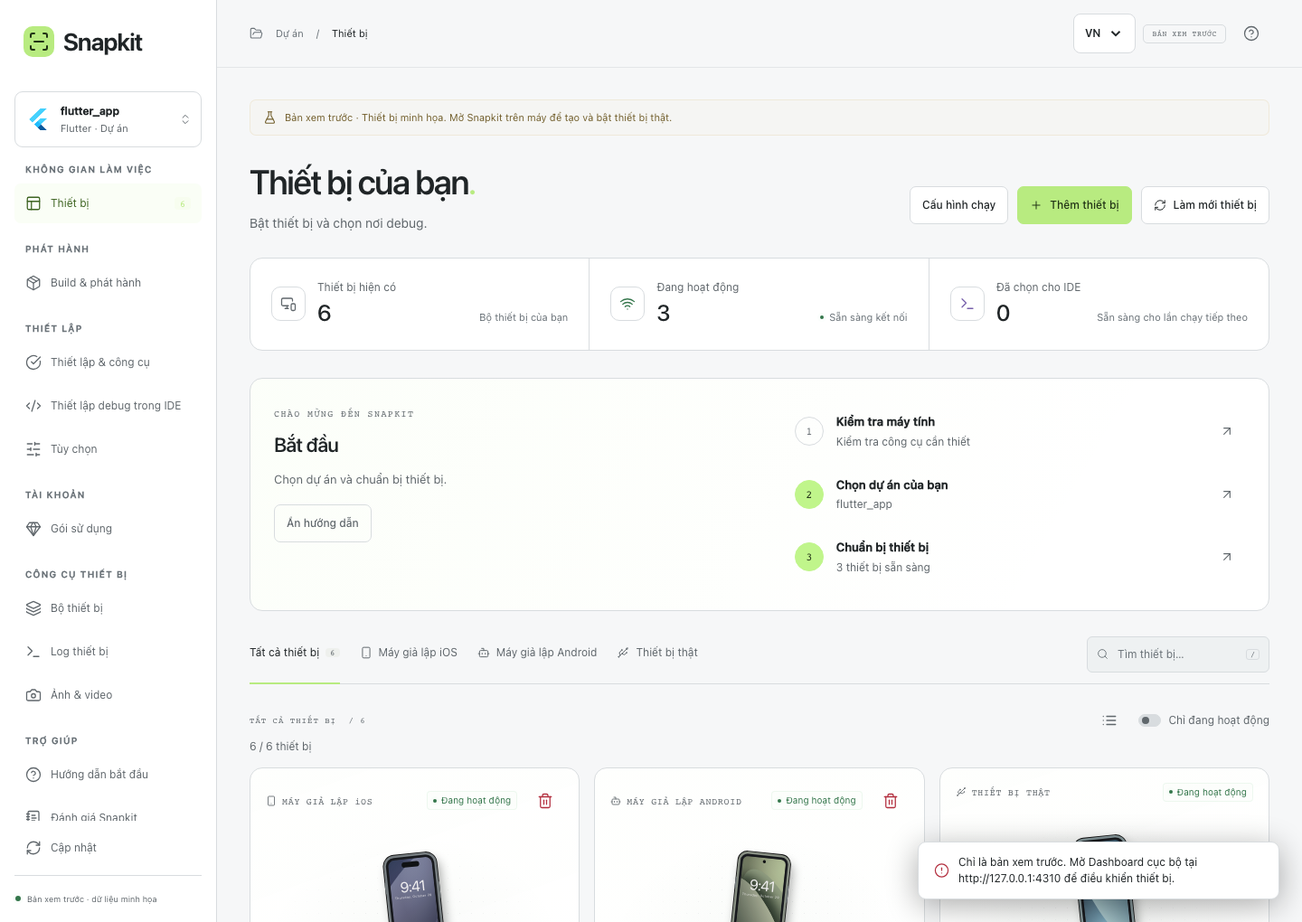
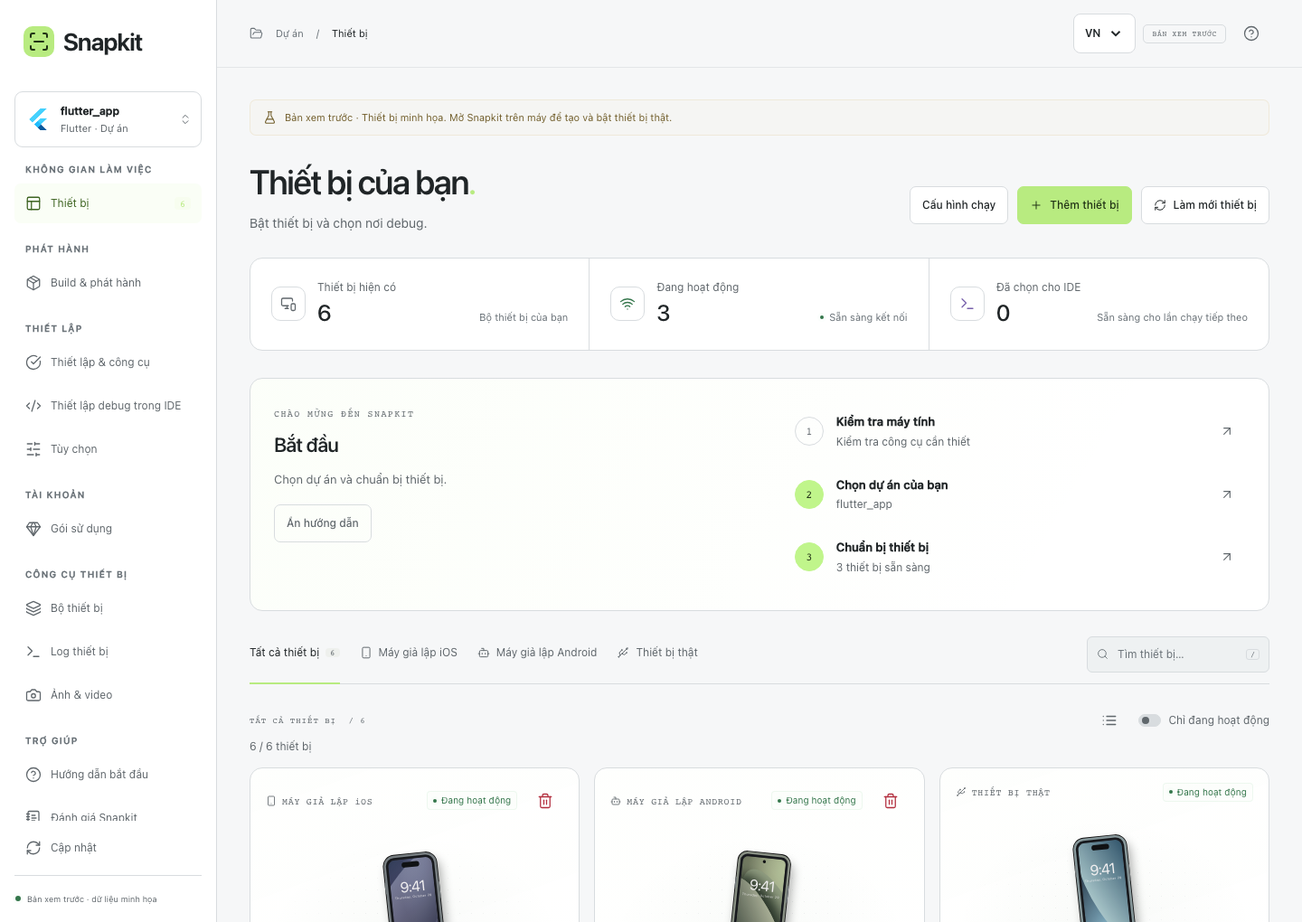
Refresh website imagery and reset guide reload position across public pages

Changed region(s): [[0.6875, 0.9118, 1.0, 1.0]]

diff --git a/scripts/build-seo-pages.js b/scripts/build-seo-pages.js
@@ -28,7 +28,7 @@ export async function buildSeoPages(out) {
  const translations = context.window.SnapkitMessages.translations;
  const original = await readFile(path.join(out,'index.html'),'utf8');
  let english = englishHTML(original, translations).replace('<html lang="vi" data-page-language="vi">','<html lang="en" data-page-language="en">');
- english = english.replace('<head>', '<head><base href="../">').replace('<link rel="canonical" href="https://snapkit.vn/">','<link rel="canonical" href="https://snapkit.vn/en/">').replace('property="og:url" content="https://snapkit.vn/"','property="og:url" content="https://snapkit.vn/en/"').replace('property="og:locale" content="vi_VN"','property="og:locale" content="en_US"').replaceAll('assets/devices-vi.png','assets/devices.png');
+ english = english.replace('<head>', '<head><base href="../">').replace('<link rel="canonical" href="https://snapkit.vn/">','<link rel="canonical" href="https://snapkit.vn/en/">').replace('property="og:url" content="https://snapkit.vn/"','property="og:url" content="https://snapkit.vn/en/"').replace('property="og:locale" content="vi_VN"','property="og:locale" content="en_US"').replace('property="og:locale:alternate" content="en_US"','property="og:locale:alternate" content="vi_VN"').replaceAll('assets/devices-vi.png','assets/devices.png');
  const description = /<meta name="description" content="([^"]*)"/.exec(english)?.[1];
  if (description) english = english.replace(/(<meta (?:property="og:description"|name="twitter:description") content=")[^"]*/g, '$1' + description);
  english = english.replace(/href="#([^"]*)"/g, 'href="en/#$1"').replaceAll('href="huong-dan/', 'href="en/guides/');
@@ -48,7 +48,7 @@ export async function buildSeoPages(out) {
   for (const guide of guides) {
    const data = guide[lang], publicPath = route(lang,guide.slug);
    const toc = data.sections.map(([heading], index)=>`<a href="${publicPath}#step-${index+1}"><span>${String(index+1).padStart(2,'0')}</span>${escape(heading)}</a>`).join('');
-   const body = `<header class="guide-heading"><p class="eyebrow">SNAPKIT / ${isVi ? 'HƯỚNG DẪN' : 'GUIDE'}</p><h1>${escape(data.title)}</h1><p>${escape(data.intro)}</p></header><figure class="guide-figure"><img src="assets/${guide.image}${isVi ? '-vi' : ''}.webp" alt="${escape(data.title)}" width="1440" height="1020" loading="lazy" decoding="async"><figcaption>${isVi ? 'Giao diện Snapkit; yêu cầu công cụ phụ thuộc project và hệ điều hành của bạn.' : 'Snapkit interface; tool requirements depend on your project and operating system.'}</figcaption></figure><div class="guide-layout"><aside class="guide-toc"><p>${isVi ? 'TRONG HƯỚNG DẪN NÀY' : 'ON THIS PAGE'}</p><nav aria-label="${isVi ? 'Mục lục' : 'Table of contents'}">${toc}</nav></aside><article class="guide-article">${data.sections.map(([heading,paragraphs],index)=>`<section id="step-${index+1}"><h2>${escape(heading)}</h2>${paragraphs.map(p=>`<p>${escape(p)}</p>`).join('')}</section>`).join('')}<section class="guide-references"><h2>${isVi ? 'Tài liệu công cụ nền tảng' : 'Platform documentation'}</h2><a href="https://docs.flutter.dev/get-started/install">Flutter SDK</a><a href="https://reactnative.dev/docs/set-up-your-environment">React Native environment</a><a href="https://developer.android.com/studio/run/managing-avds">Android virtual devices</a><a href="https://developer.apple.com/documentation/xcode/running-your-app-in-simulator-or-on-a-device">Xcode Simulator</a></section></article></div><section class="guide-related"><h2>${isVi ? 'Tiếp tục tìm hiểu' : 'Keep learning'}</h2><div class="guide-grid">${guides.filter(g=>g.slug!==guide.slug).map(g=>`<a class="guide-card" href="${route(lang,g.slug)}"><h3>${escape(g[lang].title)}</h3><p>${escape(g[lang].description)}</p></a>`).join('')}</div></section>`;
+   const body = `<header class="guide-heading"><p class="eyebrow">SNAPKIT / ${isVi ? 'HƯỚNG DẪN' : 'GUIDE'}</p><h1>${escape(data.title)}</h1><p>${escape(data.intro)}</p></header><figure class="guide-figure"><img src="assets/${guide.image}${isVi ? '-vi' : ''}.webp?v=20261106-images45" alt="${escape(data.title)}" width="1440" height="1020" loading="eager" fetchpriority="high" decoding="async"><figcaption>${isVi ? 'Giao diện Snapkit; yêu cầu công cụ phụ thuộc project và hệ điều hành của bạn.' : 'Snapkit interface; tool requirements depend on your project and operating system.'}</figcaption></figure><div class="guide-layout"><aside class="guide-toc"><p>${isVi ? 'TRONG HƯỚNG DẪN NÀY' : 'ON THIS PAGE'}</p><nav aria-label="${isVi ? 'Mục lục' : 'Table of contents'}">${toc}</nav></aside><article class="guide-article">${data.sections.map(([heading,paragraphs],index)=>`<section id="step-${index+1}"><h2>${escape(heading)}</h2>${paragraphs.map(p=>`<p>${escape(p)}</p>`).join('')}</section>`).join('')}<section class="guide-references"><h2>${isVi ? 'Tài liệu công cụ nền tảng' : 'Platform documentation'}</h2><a href="https://docs.flutter.dev/get-started/install">Flutter SDK</a><a href="https://reactnative.dev/docs/set-up-your-environment">React Native environment</a><a href="https://developer.android.com/studio/run/managing-avds">Android virtual devices</a><a href="https://developer.apple.com/documentation/xcode/running-your-app-in-simulator-or-on-a-device">Xcode Simulator</a></section></article></div><section class="guide-related"><h2>${isVi ? 'Tiếp tục tìm hiểu' : 'Keep learning'}</h2><div class="guide-grid">${guides.filter(g=>g.slug!==guide.slug).map(g=>`<a class="guide-card" href="${route(lang,g.slug)}"><h3>${escape(g[lang].title)}</h3><p>${escape(g[lang].description)}</p></a>`).join('')}</div></section>`;
    await save(publicPath,shell({lang,slug:guide.slug,title:data.title,description:data.description,body,schema:[{'@type':'TechArticle',headline:data.title,description:data.description,inLanguage:lang,url:origin+'/'+publicPath,author:{'@type':'Organization',name:'Snapkit',url:origin+'/'},about:{'@id':origin+'/#app'},mainEntityOfPage:origin+'/'+publicPath}]}));
    urls.push(publicPath);
   }
@@ -58,5 +58,5 @@ export async function buildSeoPages(out) {
 }
 function shell({lang,slug,title,description,body,schema}) {
  const vi=lang==='vi', url=route(lang,slug), base='../'.repeat(url.split('/').filter(Boolean).length);
- return `<!doctype html><html lang="${lang}"><head><meta charset="utf-8"><meta name="viewport" content="width=device-width,initial-scale=1"><base href="${base}"><title>${escape(title)} | Snapkit</title><meta name="description" content="${escape(description)}"><meta name="robots" content="index,follow,max-image-preview:large"><meta name="google-site-verification" content="${verification}"><link rel="canonical" href="${origin}/${url}">${alternates(route('vi',slug),route('en',slug))}<meta property="og:type" content="${slug ? 'article':'website'}"><meta property="og:site_name" content="Snapkit"><meta property="og:locale" content="${vi?'vi_VN':'en_US'}"><meta property="og:title" content="${escape(title)}"><meta property="og:description" content="${escape(description)}"><meta property="og:url" content="${origin}/${url}"><meta property="og:image" content="${origin}/assets/devices${vi?'-vi':''}.png"><meta name="twitter:card" content="summary_large_image"><meta name="twitter:title" content="${escape(title)}"><meta name="twitter:description" content="${escape(description)}"><meta name="twitter:image" content="${origin}/assets/devices${vi?'-vi':''}.png"><meta name="theme-color" content="#101214"><link rel="icon" href="favicon.svg" type="image/svg+xml"><link rel="stylesheet" href="site.css?v=20261106-seo"><link rel="stylesheet" href="guides.css?v=20261106-seo">${graph([...schema,{'@type':'BreadcrumbList',itemListElement:[{'@type':'ListItem',position:1,name:'Snapkit',item:origin+'/'+home(lang)},{'@type':'ListItem',position:2,name:vi?'Hướng dẫn':'Guides',item:origin+'/'+route(lang)},...(slug?[{'@type':'ListItem',position:3,name:title,item:origin+'/'+url}]:[])]}])}</head><body class="guides-page"><a class="skip-link" href="${url}#main">${vi?'Đến nội dung chính':'Skip to main content'}</a><header class="header"><nav class="nav wrap" aria-label="${vi?'Điều hướng chính':'Main navigation'}"><a class="brand" href="${home(lang)||'./'}"><img src="favicon.svg" width="34" height="34" alt="">Snapkit</a><div class="guide-nav"><a href="${route(lang)}">${vi?'Hướng dẫn':'Guides'}</a><a href="${route(vi?'en':'vi',slug)}" hreflang="${vi?'en':'vi'}" lang="${vi?'en':'vi'}">${vi?'English':'Tiếng Việt'}</a><a class="button primary" href="${home(lang)}#downloads">${vi?'Tải Snapkit':'Download Snapkit'}</a></div></nav></header><main id="main" class="wrap">${body}<section class="guide-cta"><h2>${vi?'Chuẩn bị thiết bị cho project tiếp theo.':'Prepare devices for your next project.'}</h2><p>${vi?'Snapkit cho macOS và Windows. Các tính năng hiện có đang miễn phí.':'Snapkit for macOS and Windows. Current features are free.'}</p><a class="button primary" href="${home(lang)}#downloads">${vi?'Chọn bộ cài phù hợp':'Choose your installer'}</a></section></main><footer class="footer"><div class="wrap footer-bottom"><span>© 2026 Snapkit</span><a href="${home(lang)||'./'}">${vi?'Về trang chủ':'Back to home'}</a><a href="https://github.com/bimbimvqt/snapkit">GitHub</a></div></footer></body></html>`;
+ return `<!doctype html><html lang="${lang}"><head><meta charset="utf-8"><meta name="viewport" content="width=device-width,initial-scale=1"><base href="${base}"><script src="reload.js?v=20261106-scroll"></script><title>${escape(title)} | Snapkit</title><meta name="description" content="${escape(description)}"><meta name="robots" content="index,follow,max-image-preview:large"><meta name="google-site-verification" content="${verification}"><link rel="canonical" href="${origin}/${url}">${alternates(route('vi',slug),route('en',slug))}<meta property="og:type" content="${slug ? 'article':'website'}"><meta property="og:site_name" content="Snapkit"><meta property="og:locale" content="${vi?'vi_VN':'en_US'}"><meta property="og:title" content="${escape(title)}"><meta property="og:description" content="${escape(description)}"><meta property="og:url" content="${origin}/${url}"><meta property="og:image" content="${origin}/assets/${slug ? guides.find(g => g.slug === slug).image : 'devices'}${vi?'-vi':''}.png?v=20261106-images45"><meta property="og:image:width" content="1440"><meta property="og:image:height" content="1020"><meta property="og:image:alt" content="${escape(title)}"><meta property="og:locale:alternate" content="${vi?'en_US':'vi_VN'}"><meta name="twitter:card" content="summary_large_image"><meta name="twitter:title" content="${escape(title)}"><meta name="twitter:description" content="${escape(description)}"><meta name="twitter:image" content="${origin}/assets/${slug ? guides.find(g => g.slug === slug).image : 'devices'}${vi?'-vi':''}.png?v=20261106-images45"><meta name="theme-color" content="#101214"><link rel="icon" href="favicon.svg" type="image/svg+xml"><link rel="stylesheet" href="site.css?v=20261106-seo"><link rel="stylesheet" href="guides.css?v=20261106-seo">${graph([...schema,{'@type':'BreadcrumbList',itemListElement:[{'@type':'ListItem',position:1,name:'Snapkit',item:origin+'/'+home(lang)},{'@type':'ListItem',position:2,name:vi?'Hướng dẫn':'Guides',item:origin+'/'+route(lang)},...(slug?[{'@type':'ListItem',position:3,name:title,item:origin+'/'+url}]:[])]}])}</head><body class="guides-page"><a class="skip-link" href="${url}#main">${vi?'Đến nội dung chính':'Skip to main content'}</a><header class="header"><nav class="nav wrap" aria-label="${vi?'Điều hướng chính':'Main navigation'}"><a class="brand" href="${home(lang)||'./'}"><img src="favicon.svg" width="34" height="34" alt="">Snapkit</a><div class="guide-nav"><a href="${route(lang)}">${vi?'Hướng dẫn':'Guides'}</a><a href="${route(vi?'en':'vi',slug)}" hreflang="${vi?'en':'vi'}" lang="${vi?'en':'vi'}">${vi?'English':'Tiếng Việt'}</a><a class="button primary" href="${home(lang)}#downloads">${vi?'Tải Snapkit':'Download Snapkit'}</a></div></nav></header><main id="main" class="wrap">${body}<section class="guide-cta"><h2>${vi?'Chuẩn bị thiết bị cho project tiếp theo.':'Prepare devices for your next project.'}</h2><p>${vi?'Snapkit cho macOS và Windows. Các tính năng hiện có đang miễn phí.':'Snapkit for macOS and Windows. Current features are free.'}</p><a class="button primary" href="${home(lang)}#downloads">${vi?'Chọn bộ cài phù hợp':'Choose your installer'}</a></section></main><footer class="footer"><div class="wrap footer-bottom"><span>© 2026 Snapkit</span><a href="${home(lang)||'./'}">${vi?'Về trang chủ':'Back to home'}</a><a href="https://github.com/bimbimvqt/snapkit">GitHub</a></div></footer></body></html>`;
 }

diff --git a/apps/website/index.html b/apps/website/index.html
@@ -10,14 +10,14 @@
   <meta property="og:type" content="website"><meta property="og:site_name" content="Snapkit"><meta property="og:locale" content="vi_VN">
   <meta property="og:title" content="Snapkit — Debug nhiều thiết bị Flutter, React Native">
   <meta property="og:description" content="Quản lý Android Emulator, iOS Simulator và thiết bị thật. Debug nhiều thiết bị, xem log, chụp ảnh, quay video và build Flutter trên macOS, Windows.">
-  <meta property="og:url" content="https://snapkit.vn/"><meta property="og:image" content="https://snapkit.vn/assets/devices-vi.png"><meta property="og:image:alt" content="Giao diện Snapkit quản lý thiết bị Flutter và React Native">
-  <meta name="twitter:card" content="summary_large_image"><meta name="twitter:title" content="Snapkit — Debug nhiều thiết bị Flutter, React Native"><meta name="twitter:description" content="Workspace desktop cho Flutter và React Native trên macOS, Windows."><meta name="twitter:image" content="https://snapkit.vn/assets/devices-vi.png">
+  <meta property="og:url" content="https://snapkit.vn/"><meta property="og:image" content="https://snapkit.vn/assets/devices-vi.png?v=20261106-images45"><meta property="og:image:width" content="1440"><meta property="og:image:height" content="1020"><meta property="og:locale:alternate" content="en_US"><meta property="og:image:alt" content="Giao diện Snapkit quản lý thiết bị Flutter và React Native">
+  <meta name="twitter:card" content="summary_large_image"><meta name="twitter:title" content="Snapkit — Debug nhiều thiết bị Flutter, React Native"><meta name="twitter:description" content="Workspace desktop cho Flutter và React Native trên macOS, Windows."><meta name="twitter:image" content="https://snapkit.vn/assets/devices-vi.png?v=20261106-images45">
   <meta name="theme-color" content="#101214">
   <meta name="description" content="Snapkit giúp quản lý Android Emulator, iOS Simulator và debug nhiều thiết bị Flutter, React Native trên macOS và Windows. Tải miễn phí và giữ project trên máy bạn.">
   <title>Snapkit — Debug nhiều thiết bị Flutter, React Native</title>
-  <link rel="icon" href="favicon.svg" type="image/svg+xml"><link rel="stylesheet" href="site.css?v=20261106-debug-video"><link rel="stylesheet" href="language.css"><link rel="stylesheet" href="guides.css?v=20261106-seo">
-  <link rel="stylesheet" href="choices.css?v=20261106-icons"><script src="choices.js?v=20261106-icons" defer></script><script src="locales.js?v=20261106-seo" defer></script><script src="i18n.js?v=20261106-seo" defer></script><script src="site.js?v=20261106-seo" defer></script>
-  <script type="application/ld+json">{"@context": "https://schema.org", "@graph": [{"@type": "WebSite", "@id": "https://snapkit.vn/#website", "url": "https://snapkit.vn/", "name": "Snapkit", "inLanguage": ["vi", "en"]}, {"@type": "SoftwareApplication", "@id": "https://snapkit.vn/#app", "name": "Snapkit", "url": "https://snapkit.vn/", "description": "Desktop workspace for Flutter and React Native device management, multi-device debugging, captures and Flutter builds.", "applicationCategory": "DeveloperApplication", "operatingSystem": "macOS 13+, Windows 64-bit", "image": "https://snapkit.vn/assets/devices.png", "offers": {"@type": "Offer", "price": "0", "priceCurrency": "USD", "description": "All current features are free."}, "featureList": ["Android Emulator and iOS Simulator management", "Flutter multi-device debug selection", "React Native Metro and Hermes debugging", "Device logs, screenshots and screen recordings", "Flutter APK, AAB and IPA builds"]}]}</script>
+  <link rel="icon" href="favicon.svg" type="image/svg+xml"><link rel="stylesheet" href="site.css?v=20261106-debug-video"><link rel="stylesheet" href="language.css"><link rel="stylesheet" href="guides.css?v=20261106-images45">
+  <link rel="stylesheet" href="choices.css?v=20261106-icons"><script src="choices.js?v=20261106-icons" defer></script><script src="locales.js?v=20261106-images45" defer></script><script src="i18n.js?v=20261106-images45" defer></script><script src="site.js?v=20261106-images45" defer></script>
+  <script type="application/ld+json">{"@context": "https://schema.org", "@graph": [{"@type": "WebSite", "@id": "https://snapkit.vn/#website", "url": "https://snapkit.vn/", "name": "Snapkit", "inLanguage": ["vi", "en"]}, {"@type": "SoftwareApplication", "@id": "https://snapkit.vn/#app", "name": "Snapkit", "url": "https://snapkit.vn/", "description": "Desktop workspace for Flutter and React Native device management, multi-device debugging, captures and Flutter builds.", "applicationCategory": "DeveloperApplication", "operatingSystem": "macOS 13+, Windows 64-bit", "image": "https://snapkit.vn/assets/devices.png?v=20261106-images45", "offers": {"@type": "Offer", "price": "0", "priceCurrency": "USD", "description": "All current features are free."}, "featureList": ["Android Emulator and iOS Simulator management", "Flutter multi-device debug selection", "React Native Metro and Hermes debugging", "Device logs, screenshots and screen recordings", "Flutter APK, AAB and IPA builds"]}]}</script>
 </head>
 <body>
   <a class="skip-link" href="#main">Đến nội dung chính</a>
@@ -33,7 +33,7 @@
     <div class="hero-stack"><span>Flutter</span><span>React Native · Hermes</span><span>Android</span><span>iOS Simulator</span></div></section>
     <section class="preview-section wrap" aria-labelledby="preview-title">
       <div class="preview-toolbar"><h2 id="preview-title">Một góc nhìn. Toàn bộ thiết bị.</h2><div class="preview-tabs" role="group" aria-label="Chọn giao diện xem trước"><button type="button" data-preview="debug" aria-pressed="true">Debug Sync</button><button type="button" data-preview="devices" aria-pressed="false">Quản lý thiết bị</button><button type="button" data-preview="setup" aria-pressed="false">Kiểm tra công cụ</button><button type="button" data-preview="captures" aria-pressed="false">Ảnh & video</button><button type="button" data-preview="releases" aria-pressed="false">Build & phát hành</button></div></div>
-      <figure class="app-window"><div class="preview-stage"><div id="debug-preview" class="debug-preview"><video id="debug-video" controls muted loop playsinline preload="none" poster="assets/debug-sync/vi.webp" aria-label="Video minh họa Debug Sync"></video><button type="button" id="debug-play" class="debug-play"><svg class="ui-icon" viewBox="0 0 24 24" aria-hidden="true"><path d="m8 5 11 7-11 7z"/></svg><span>Xem Debug Sync</span></button><p id="debug-video-status" role="status" hidden></p><button type="button" id="debug-retry" hidden>Thử lại</button></div><div class="window-top" hidden><div class="window-dots" aria-hidden="true"><b></b><b></b><b></b></div><span>Snapkit — Your local workspace</span><span class="window-badge">DESKTOP APP</span></div><img id="app-preview" hidden loading="lazy" src="assets/devices-vi.webp?v=20261106-seo" width="1440" height="1020" alt="Giao diện Snapkit quản lý iPhone Simulator, Android Emulator và điện thoại thật với trạng thái và nút chọn debug"><div id="preview-loading" class="preview-loading" role="status" aria-live="polite" hidden><span class="preview-loading-label"><span class="loading-pulse" aria-hidden="true"></span><span>Đang chuẩn bị bản xem trước…</span></span><div class="preview-skeleton" aria-hidden="true"><div class="skeleton-editor"><i></i><i></i><i></i><i></i><i></i></div><div class="skeleton-phone"><i></i><b></b><i></i></div><div class="skeleton-phone"><i></i><b></b><i></i></div><div class="skeleton-phone"><i></i><b></b><i></i></div></div></div></div><figcaption id="preview-caption">Debug Sync · Video minh họa Flutter Hot Reload trên 3 thiết bị.</figcaption></figure>
+      <figure class="app-window"><div class="preview-stage"><div id="debug-preview" class="debug-preview"><video id="debug-video" controls muted loop playsinline preload="none" poster="assets/debug-sync/vi.webp" aria-label="Video minh họa Debug Sync"></video><button type="button" id="debug-play" class="debug-play"><svg class="ui-icon" viewBox="0 0 24 24" aria-hidden="true"><path d="m8 5 11 7-11 7z"/></svg><span>Xem Debug Sync</span></button><p id="debug-video-status" role="status" hidden></p><button type="button" id="debug-retry" hidden>Thử lại</button></div><div class="window-top" hidden><div class="window-dots" aria-hidden="true"><b></b><b></b><b></b></div><span>Snapkit — Your local workspace</span><span class="window-badge">DESKTOP APP</span></div><img id="app-preview" hidden loading="lazy" src="assets/devices-vi.webp?v=20261106-images45" width="1440" height="1020" alt="Giao diện Snapkit quản lý iPhone Simulator, Android Emulator và điện thoại thật với trạng thái và nút chọn debug"><div id="preview-loading" class="preview-loading" role="status" aria-live="polite" hidden><span class="preview-loading-label"><span class="loading-pulse" aria-hidden="true"></span><span>Đang chuẩn bị bản xem trước…</span></span><div class="preview-skeleton" aria-hidden="true"><div class="skeleton-editor"><i></i><i></i><i></i><i></i><i></i></div><div class="skeleton-phone"><i></i><b></b><i></i></div><div class="skeleton-phone"><i></i><b></b><i></i></div><div class="skeleton-phone"><i></i><b></b><i></i></div></div></div></div><figcaption id="preview-caption">Debug Sync · Video minh họa Flutter Hot Reload trên 3 thiết bị.</figcaption></figure>
       <div class="preview-benefits"><span><svg class="ui-icon" viewBox="0 0 24 24" aria-hidden="true"><path d="m5 12 4 4L19 6"/></svg> Thiết bị thật & giả lập</span><span><svg class="ui-icon" viewBox="0 0 24 24" aria-hidden="true"><path d="m5 12 4 4L19 6"/></svg> Làm việc trong editor quen thuộc</span><span><svg class="ui-icon" viewBox="0 0 24 24" aria-hidden="true"><path d="m5 12 4 4L19 6"/></svg> Project ở trên máy bạn</span></div>
     </section>
     <section id="features" class="section wrap"><div class="section-heading"><div><p class="eyebrow">TỪ PROJECT ĐẾN THIẾT BỊ</p><h2>Những công cụ cần dùng.<br>Cùng một workspace.</h2></div><p class="section-intro">Chuẩn bị máy, debug, xem log và lưu lại kết quả. Giữ mạch làm việc ngay trên máy của bạn.</p></div><div class="feature-grid"><article class="feature-card"><span class="feature-icon" aria-hidden="true">01</span><h3>Workspace theo cách bạn làm việc.</h3><p>Tách dự án Flutter và React Native thành các workspace có tên. Lưu project, cấu hình debug và bộ thiết bị để quay lại đúng ngữ cảnh.</p><span class="feature-label">WORKSPACES</span></article><article class="feature-card"><span class="feature-icon" aria-hidden="true">02</span><h3>Một lần Debug, nhiều màn hình.</h3><p>Chọn các thiết bị đang online, bấm F5 trong IDE qua Snapkit Debug Sync. Flutter dùng profile hiện có; React Native dùng Metro và debugger Hermes riêng cho từng máy.</p><span class="feature-label">IDE DEBUG SYNC</span></article><article class="feature-card"><span class="feature-icon" aria-hidden="true">03</span><h3>Cả bộ thiết bị, sẵn sàng cùng bạn.</h3><p>Tạo, bật và dừng máy ảo. Lưu bộ thiết bị theo project, khởi động cả bộ và chọn các máy sẵn sàng cho lần debug tiếp theo.</p><span class="feature-label">DEVICE SETS</span></article><article class="feature-card"><span class="feature-icon" aria-hidden="true">04</span><h3>Tìm đúng dòng log cần xem.</h3><p>Theo dõi log hệ thống, tìm theo package hoặc nội dung, lọc cảnh báo/lỗi và xuất các dòng đã lọc. Dart Debug Console vẫn ở trong IDE.</p><span class="feature-label">DEVICE LOGS</span></article><article class="feature-card"><span class="feature-icon" aria-hidden="true">05</span><h3>Lưu lại điều đang diễn ra.</h3><p>Chụp PNG, quay MP4 không âm thanh và lưu theo project. Hỗ trợ Android và iOS Simulator; video tối đa 3 phút.</p><span class="feature-label">CAPTURES</span></article><article class="feature-card"><span class="feature-icon" aria-hidden="true">06</span><h3>Từ workspace đến bản phát hành.</h3><p>Build Flutter APK, AAB hoặc IPA với flavor và cấu hình signing của bạn. Theo dõi log, tải artifact và xác nhận riêng khi upload TestFlight.</p><span class="feature-label">FLUTTER RELEASES</span></article></div></section>

diff --git a/tests/pages/site.spec.js b/tests/pages/site.spec.js
@@ -11,7 +11,7 @@ test('Pages works under a project prefix and preview never calls local APIs', as
   await expect(page.getByRole('heading', { name: 'Mọi thiết bị. Một nơi điều khiển.' })).toBeVisible();
   await expect(page.locator('#debug-video')).toBeVisible();
   await page.getByRole('button', { name: 'Kiểm tra công cụ' }).click();
-  await expect(page.locator('#app-preview')).toHaveAttribute('src', 'assets/setup-vi.webp?v=20261106-seo');
+  await expect(page.locator('#app-preview')).toHaveAttribute('src', 'assets/setup-vi.webp?v=20261106-images45');
   await expect(page.getByRole('contentinfo')).toContainText('Tải ứng dụng');
   await page.goto('demo/?lang=en');
   await expect(page.locator('#server-status')).toHaveText('Static preview · sample data');
@@ -102,7 +102,7 @@ test('landing switches EN/VN, keeps preview and links, and remembers the languag
   await page.getByRole('button', { name: 'Setup & tools', exact: true }).click();
   await chooseLanguage(page, 'vi');
   await expect(page.getByRole('heading', { level: 1 })).toContainText('Mọi thiết bị.');
-  await expect(page.locator('#app-preview')).toHaveAttribute('src', 'assets/setup-vi.webp?v=20261106-seo');
+  await expect(page.locator('#app-preview')).toHaveAttribute('src', 'assets/setup-vi.webp?v=20261106-images45');
   expect(await page.locator('.download-button').evaluateAll(links => links.map(link => link.href))).toEqual(downloads);
   await page.goto('./');
   await expect(page.locator('[data-language-select]')).toHaveAttribute('data-language-current', 'vi');
@@ -132,7 +132,7 @@ test('current workflows and app gallery work in both languages with keyboard nav
     await chooseLanguage(page,language);
     for(const key of ['devices','setup','captures','releases']) {
       await page.locator(`[data-preview="${key}"]`).click();
-      await expect(page.locator('#app-preview')).toHaveAttribute('src',`assets/${key}${language==='vi'?'-vi':''}.webp?v=20261106-seo`);
+      await expect(page.locator('#app-preview')).toHaveAttribute('src',`assets/${key}${language==='vi'?'-vi':''}.webp?v=20261106-images45`);
       await expect.poll(()=>page.locator('#app-preview').evaluate(image=>image.complete&&image.naturalWidth>0)).toBe(true);
     }
     for(const width of [375,768,1024,1440]) {

diff --git a/tests/pages/header-stability.spec.js b/tests/pages/header-stability.spec.js
@@ -75,3 +75,26 @@ for (const width of [375, 1440]) {
     });
   }
 }
+
+const guideSlugs = ['flutter-multi-device-debugging', 'react-native-multi-device-debugging', 'android-emulator-ios-simulator', 'install-snapkit-macos-windows'];
+for (const route of ['huong-dan/', 'en/guides/', ...guideSlugs.flatMap(slug => [`huong-dan/${slug}/`, `en/guides/${slug}/`])]) {
+  test(`guide reload resets scroll while fresh deep links still work (${route})`, async ({ page }) => {
+    for (const width of [375, 1440]) {
+      await page.setViewportSize({ width, height: 800 });
+      await page.goto(route + '?source=reload-test');
+      await page.evaluate(() => window.scrollTo({ top: 1200, behavior: 'instant' }));
+      expect(await page.evaluate(() => scrollY)).toBeGreaterThan(300);
+      await page.reload();
+      expect(await page.evaluate(() => scrollY)).toBe(0);
+      await expect(page.locator('.header')).toBeInViewport();
+      expect(new URL(page.url()).search).toBe('?source=reload-test');
+      if (route.split('/').filter(Boolean).length > (route.startsWith('en/') ? 2 : 1)) {
+        await page.goto(route + '?source=reload-test#step-2');
+        await expect(page.locator('#step-2')).toBeInViewport();
+        await page.reload();
+        expect(await page.evaluate(() => scrollY)).toBe(0);
+        expect(new URL(page.url()).hash).toBe('');
+      }
+    }
+  });
+}

diff --git a/apps/cloud/src/index.js b/apps/cloud/src/index.js
@@ -115,7 +115,7 @@ export function createCloud({ env = process.env, fetcher = fetch, verifyGoogle }
   app.get('/favicon.svg', (_req, res) => res.sendFile(path.join(root, 'packages/ui/favicon.svg'), error => { if (error) res.sendFile(path.join(root, 'packages/ui/favicon.svg')); }));
   app.use(express.static(path.join(root, 'apps/website'), { maxAge: '5m', setHeaders(res, file) {
     if (file.includes(path.sep + 'assets' + path.sep)) res.setHeader('Cache-Control', 'public, max-age=86400');
-    else if (['site.css', 'site.js', 'locales.js', 'guides.css'].includes(path.basename(file))) res.setHeader('Cache-Control', 'public, max-age=3600');
+    else if (['site.css', 'site.js', 'locales.js', 'guides.css', 'reload.js'].includes(path.basename(file))) res.setHeader('Cache-Control', 'public, max-age=3600');
   } }));
   app.use((_req, res) => res.status(404).json({ error: 'Not found' }));
   app.use((error, _req, res, _next) => res.status([403, 409, 413].includes(error.status) ? error.status : 400).json({ error: error.status === 413 ? 'Request too large' : 'Invalid request' }));

diff --git a/tests/pages/seo.spec.js b/tests/pages/seo.spec.js
@@ -31,7 +31,7 @@ test('English landing stays English with JavaScript and its guide links, preview
  await page.goto('en/');await expect(page.locator('html')).toHaveAttribute('lang','en');
  await expect(page.locator('.hero-product')).toContainText('desktop app');
  await expect(page.locator('#guides a').first()).toHaveAttribute('href','en/guides/flutter-multi-device-debugging/');
- await page.locator('[data-preview=setup]').click();await expect(page.locator('#app-preview')).toHaveAttribute('src','assets/setup.webp?v=20261106-seo');
+ await page.locator('[data-preview=setup]').click();await expect(page.locator('#app-preview')).toHaveAttribute('src','assets/setup.webp?v=20261106-images45');
  await page.locator('[data-language-select]').click();await page.locator('[data-language=vi]').click();
  await expect(page.locator('.hero-product')).toContainText('ứng dụng desktop');
  expect(errors).toEqual([]);

diff --git a/tests/pages/refresh-assets.spec.js b/tests/pages/refresh-assets.spec.js
@@ -13,6 +13,11 @@ test('refresh authored website screenshots from the current sample app', async (
       await expect(page.locator('.sidebar [aria-current="page"]')).toHaveAttribute('data-app-page',key);
       await page.mouse.move(1438, 2);
       await page.evaluate(async () => { await Promise.all(document.getAnimations().map(animation => animation.finished.catch(() => {}))); });
+      await expect(page.locator('.toast')).toHaveCount(0);
+      if (key === 'setup') {
+        await expect(page.locator('#computer-art img')).toBeVisible();
+        await expect.poll(() => page.locator('#computer-art img').evaluate(img => img.complete && img.naturalWidth > 0)).toBe(true);
+      }
       const file=`apps/website/assets/${key}${language==='vi'?'-vi':''}.png`;
       await page.screenshot({path:file});
       await copyFile(file,file.replace('apps/website/','dist/'));

diff --git a/apps/website/site.js b/apps/website/site.js
@@ -106,7 +106,7 @@ async function choosePreview(key) {
   const epoch = ++previewEpoch;
   const language = window.SnapkitI18n.language;
   if (key !== 'debug') pauseDebugVideo();
-  const source = `assets/${key}${language === 'vi' ? '-vi' : ''}.webp?v=20261106-seo`;
+  const source = `assets/${key}${language === 'vi' ? '-vi' : ''}.webp?v=20261106-images45`;
   const figure = previewFigure; previewPending = true; updatePreviewLoading();
   try {
     const next = new Image(); next.src = key === 'debug' ? `assets/debug-sync/${language}.webp` : source; await next.decode();

diff --git a/docs/website-feedback-seo.md b/docs/website-feedback-seo.md
@@ -21,3 +21,11 @@ Google's provided verification token is public in the HTML meta tag and an addit
 Private account/admin HTML and generated demo/controllers include noindex meta tags in addition to server headers. Demo/controller routes are crawlable so search crawlers can see noindex; API/auth/admin paths remain disallowed. Public images use WebP for gallery/guide delivery (PNG remains for social images), with explicit dimensions and lazy loading where appropriate. Public assets have bounded browser caching; HTML and account/API responses retain no-store. No Google Analytics tag or advertising tracker is added without an actual configured property. Download conversion attribution is not measured by Search Console; use a separately configured analytics property if needed.
 
 After refreshing PNG screenshots using the command above, regenerate the matching WebP files before publishing. The generated docs and landing gallery read WebP; social cards use PNG. Keep the gallery cache query version consistent with the page tests.
+
+## Public-page consistency and domain audit (2026-11-06)
+
+All 12 public landing/guide URLs now load the same external reload handler under the production CSP. Reload returns to the top and removes an old section hash; fresh TOC/deep links continue to scroll to their targets. The regression suite covers Vietnamese/English guide indexes and all articles at phone and desktop widths as well as both landing pages.
+
+All eight authored screenshots were refreshed from the current demo, with an explicit no-toast check and image-load check before capture. PNG social images and WebP article/gallery images use the `20261106-images45` URL version so existing browser caches cannot keep the old CSS-drawn computer or preview-error toast. Article social images match their illustrated workflow, provide image dimensions/alt text and an alternate locale; the primary article screenshot receives high fetch priority. `reload.js` has bounded public caching while HTML retains no-store.
+
+Production domain audit covers `snapkit.vn`, the `www.snapkit.vn` canonical redirect, and the operational `log.snapkit.vn`/`monitor.snapkit.vn` hosts over HTTP/HTTPS. HTTP redirects to HTTPS. The two operational hosts now send `X-Robots-Tag: noindex, nofollow` at Caddy; they do not belong in the public landing sitemap. The Caddy change is in `/opt/villship-observatory/Caddyfile`, backed up as `Caddyfile.before-seo-noindex-20261106`; validate the config before reloading the edge service.
